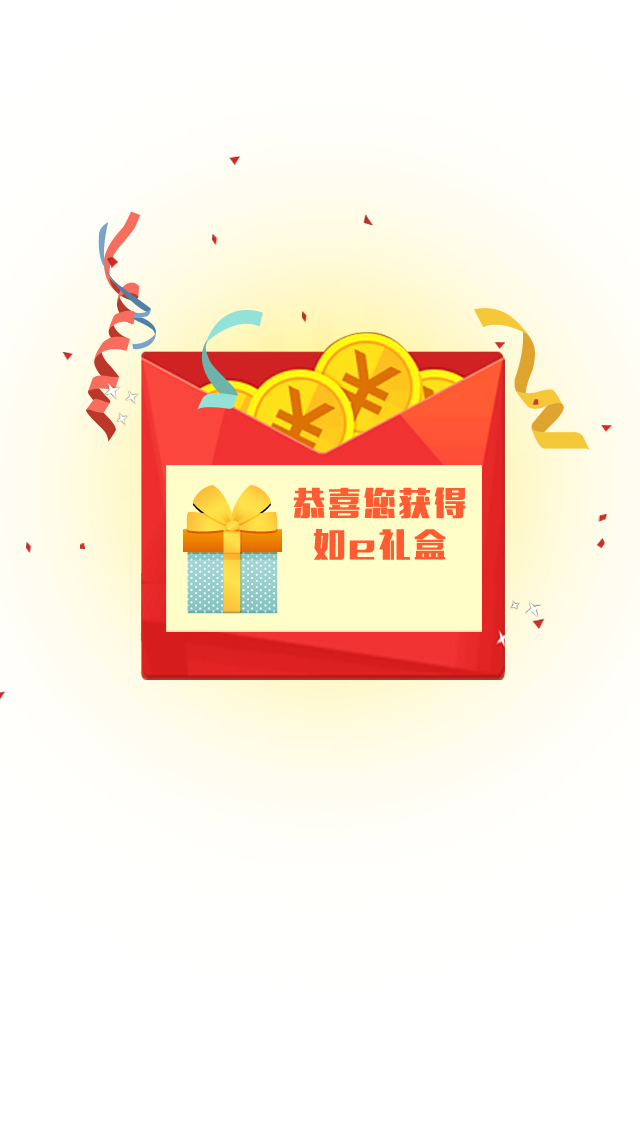
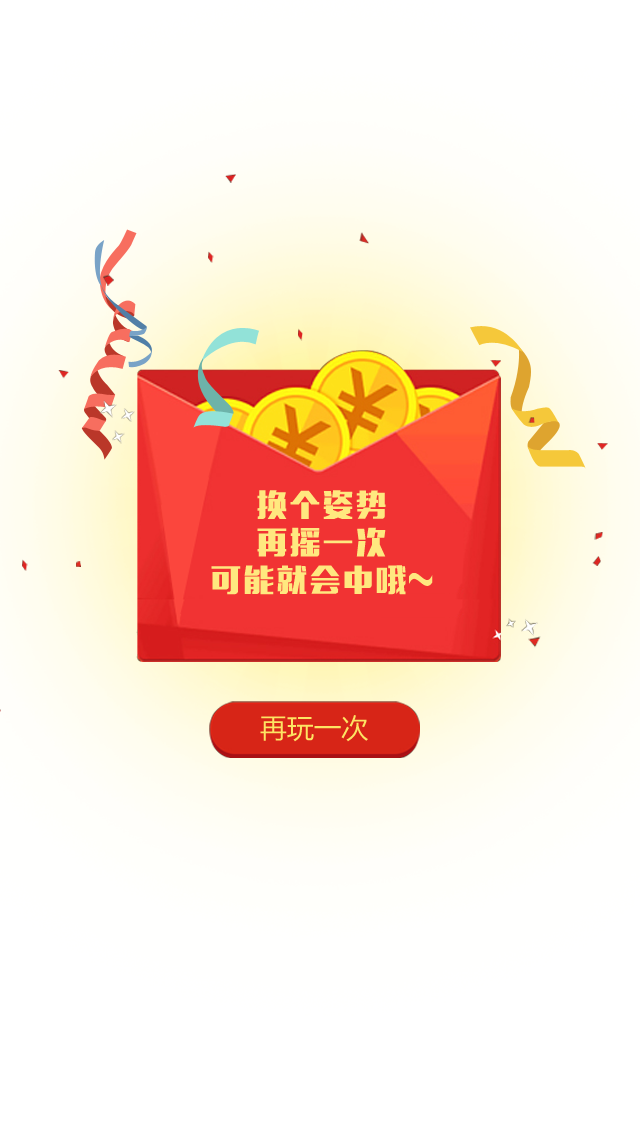
Fixed issue

Changed region(s): [[0.0938, 0.1849, 0.9688, 0.6778], [0.5625, 0.1849, 0.5938, 0.2157]]

diff --git a/src/WechatBribery/wwwroot/styles/shaked.css b/src/WechatBribery/wwwroot/styles/shaked.css
@@ -1,0 +1,85 @@
+*{padding:0;margin:0;-webkit-tap-highlight-color:rgba(0,0,0,0);text-decoration:none;}
+		   .zhezhaoceng{width:100%;height:100%;background:rgba(52, 52, 52, 0.8);position:absolute;z-index:9998}
+			.shakTop {
+				background:url(../images/top.jpg) no-repeat;background-size:100% 100%;
+				position : fixed;
+				width : 100%;
+			    height: 50%;
+			}
+			.shakBottom {
+				background:url(../images/bottom.jpg) no-repeat;background-size:100% 100%;
+				position : fixed;
+				width : 100%;
+				height: 50%;
+			}
+			.shakTop    {top    : 0;}
+			.shakBottom {bottom : 0;}
+
+			.shakTop span,.shakBottom span{
+				
+			}
+			.shakTop    span{bottom : 0;}
+			.shakBottom span{
+			
+				top : 0;
+			}
+
+			.shake_box_focus .shakTop{
+				animation        : shakTop 1s 1 linear;
+				-moz-animation   : shakTop 1s 1 linear;
+				-webkit-animation: shakTop 1s 1 linear;
+				-ms-animation    : shakTop 1s 1 linear;
+				-o-animation     : shakTop 1s 1 linear;
+			}
+			.shake_box_focus .shakBottom{
+				animation        : shakBottom 1s 1 linear;
+				-moz-animation   : shakBottom 1s 1 linear;
+				-webkit-animation: shakBottom 1s 1 linear;
+				-ms-animation    : shakBottom 1s 1 linear;
+				-o-animation     : shakBottom 1s 1 linear;
+			}
+
+			/* 向上拉动画效果 */
+			@-webkit-keyframes shakTop   {
+				0%   {top: 0;}
+				50%  {top: -200px;}
+				100% {top: 0;}
+			}
+			@-moz-keyframes shakTop      {
+				0%   {top: 0;}
+				50%  {top: -200px;}
+				100% {top: 0;}
+			}
+			@-ms-keyframes shakTop       {
+				0%   {top: 0;}
+				50%  {top: -200px;}
+				100% {top: 0;}
+			}
+			@-o-keyframes shakTop        { 
+				0%   {top: 0;}
+				50%  {top: -200px;}
+				100% {top: 0;}
+			}
+			
+			/* 向下拉动画效果 */
+			@-webkit-keyframes shakBottom   {
+				0%   {bottom: 0;}
+				50%  {bottom: -200px;}
+				100% {bottom: 0;}
+			}
+			@-moz-keyframes shakBottom      {
+				0%   {bottom: 0;}
+				50%  {bottom: -200px;}
+				100% {bottom: 0;}
+			}
+			@-ms-keyframes shakBottom       {
+				0%   {bottom: 0;}
+				50%  {bottom: -200px;}
+				100% {bottom: 0;}
+			}
+			@-o-keyframes shakBottom        { 
+				0%   {bottom: 0;}
+				50%  {bottom: -200px;}
+				100% {bottom: 0;}
+			}
+			

diff --git a/src/WechatBribery/Controllers/HomeController.cs b/src/WechatBribery/Controllers/HomeController.cs
@@ -6,6 +6,7 @@ using Microsoft.AspNetCore.Http;
 using Microsoft.AspNetCore.Hosting;
 using Microsoft.AspNetCore.Mvc;
 using Microsoft.AspNetCore.Authorization;
+using Microsoft.Extensions.Caching.Memory;
 using Pomelo.Data.Excel;
 using WechatBribery.Models;
 using static Newtonsoft.Json.JsonConvert;
@@ -36,7 +37,7 @@ namespace WechatBribery.Controllers
                 Begin = DateTime.Now,
                 RuleJson = Rules,
                 Title = Title,
-                Ratio = Ratio,
+                Ratio = Ratio / 100.0,
                 BottomUrl = BottomUrl
             };
 
@@ -77,11 +78,15 @@ namespace WechatBribery.Controllers
             return RedirectToAction("Activity", "Home", new { id = act.Id });
         }
 
-        public IActionResult Activity(Guid id)
+        public IActionResult Activity(Guid id, [FromServices] IMemoryCache Cache)
         {
             var act = DB.Activities.Single(x => x.Id == id);
             ViewBag.Price = DB.Briberies.Where(x => x.ActivityId == id && x.ReceivedTime.HasValue).Sum(x => x.Price);
             ViewBag.Amount = DB.Briberies.Count(x => x.ActivityId == id && x.ReceivedTime.HasValue);
+            long cnt;
+            if (!Cache.TryGetValue<long>(act.Id, out cnt))
+                cnt = 0;
+            ViewBag.Attend = cnt;
             ViewBag.Briberies = DB.Briberies
                 .Where(x => x.ActivityId == id && x.ReceivedTime.HasValue)
                 .OrderByDescending(x => x.ReceivedTime)
@@ -116,8 +121,16 @@ namespace WechatBribery.Controllers
                 foreach(var x in src)
                     sheet1.Add(new Pomelo.Data.Excel.Infrastructure.Row { x.OpenId ?? "", x.NickName ?? "", (x.Price / 100.0).ToString("0.00"), x.ReceivedTime.Value.ToString("yyyy-MM-dd HH:mm:ss") });
                 sheet1.Add(new Pomelo.Data.Excel.Infrastructure.Row());
-                sheet1.Add(new Pomelo.Data.Excel.Infrastructure.Row { "未领取金额（元）", "未领取红包（个）" });
-                sheet1.Add(new Pomelo.Data.Excel.Infrastructure.Row { ((activity.Price - src.Sum(x => x.Price)) / 100.0).ToString("0.00"), nonawarded.ToString() });
+                if (activity.End.HasValue)
+                {
+                    sheet1.Add(new Pomelo.Data.Excel.Infrastructure.Row { "未领取金额（元）", "未领取红包（个）", "总参与人数" });
+                    sheet1.Add(new Pomelo.Data.Excel.Infrastructure.Row { ((activity.Price - src.Sum(x => x.Price)) / 100.0).ToString("0.00"), nonawarded.ToString(), activity.Attend.ToString() });
+                }
+                else
+                {
+                    sheet1.Add(new Pomelo.Data.Excel.Infrastructure.Row { "未领取金额（元）", "未领取红包（个）" });
+                    sheet1.Add(new Pomelo.Data.Excel.Infrastructure.Row { ((activity.Price - src.Sum(x => x.Price)) / 100.0).ToString("0.00"), nonawarded.ToString() });
+                }
                 sheet1.SaveChanges();
             }
             var ret = System.IO.File.ReadAllBytes(path);
@@ -136,10 +149,15 @@ namespace WechatBribery.Controllers
         }
 
         [HttpPost]
-        public IActionResult Stop(Guid id)
+        public IActionResult Stop(Guid id, [FromServices] IMemoryCache Cache)
         {
             var act = DB.Activities.Single(x => x.Id == id);
             act.End = DateTime.Now;
+            long cnt;
+            if (!Cache.TryGetValue<long>(act.Id, out cnt))
+                cnt = 0;
+            act.Attend = cnt;
+            DB.SaveChanges();
             return RedirectToAction("Activity", "Home", new { id = id });
         }
     }

diff --git a/src/WechatBribery/Hubs/BriberyHub.cs b/src/WechatBribery/Hubs/BriberyHub.cs
@@ -4,6 +4,7 @@ using System.Collections.Generic;
 using Microsoft.AspNetCore.SignalR;
 using Microsoft.AspNetCore.Http;
 using Microsoft.Extensions.DependencyInjection;
+using Microsoft.Extensions.Caching.Memory;
 using WechatBribery.Models;
 using static Newtonsoft.Json.JsonConvert;
 using System.Threading.Tasks;
@@ -14,11 +15,22 @@ namespace WechatBribery.Hubs
     {
         public string Shake()
         {
+            // 获取活动信息
             var DB = Context.Request.HttpContext.RequestServices.GetRequiredService<BriberyContext>();
             var activity = DB.Activities.Where(x => x.Begin <= DateTime.Now && !x.End.HasValue).FirstOrDefault();
             if (activity == null)
                 return "NO";
 
+            // 参与人数缓存
+            var Cache = Context.Request.HttpContext.RequestServices.GetRequiredService<IMemoryCache>();
+            long cnt;
+            if (!Cache.TryGetValue(activity.Id, out cnt))
+                cnt = 0;
+            cnt++;
+            Cache.Set(activity.Id, cnt);
+            Clients.Group(activity.Id.ToString()).OnShaked();
+
+            // 抽奖
             var rand = new Random();
             var num = rand.Next(0, 10000);
 
@@ -31,6 +43,7 @@ namespace WechatBribery.Hubs
                 if (prize == null) // 没有红包了
                 {
                     activity.End = DateTime.Now;
+                    activity.Attend = cnt;
                     DB.SaveChanges();
                     Clients.Group(activity.Id.ToString()).OnActivityEnd();
                     return "RETRY";

diff --git a/src/WechatBribery/Startup.cs b/src/WechatBribery/Startup.cs
@@ -21,6 +21,7 @@ namespace WechatBribery
             services.AddConfiguration(out Config);
             services.AddSmartCookies();
             services.AddSmartUser<IdentityUser, string>();
+            services.AddMemoryCache();
 
             services.AddDbContext<BriberyContext>(x => x.UseSqlite("Data source=wechat.db"));
 

diff --git a/src/WechatBribery/Models/Activity.cs b/src/WechatBribery/Models/Activity.cs
@@ -26,5 +26,7 @@ namespace WechatBribery.Models
         public byte[] Bottom { get; set; }
 
         public string BottomUrl { get; set; }
+
+        public long Attend { get; set; }
     }
 }
